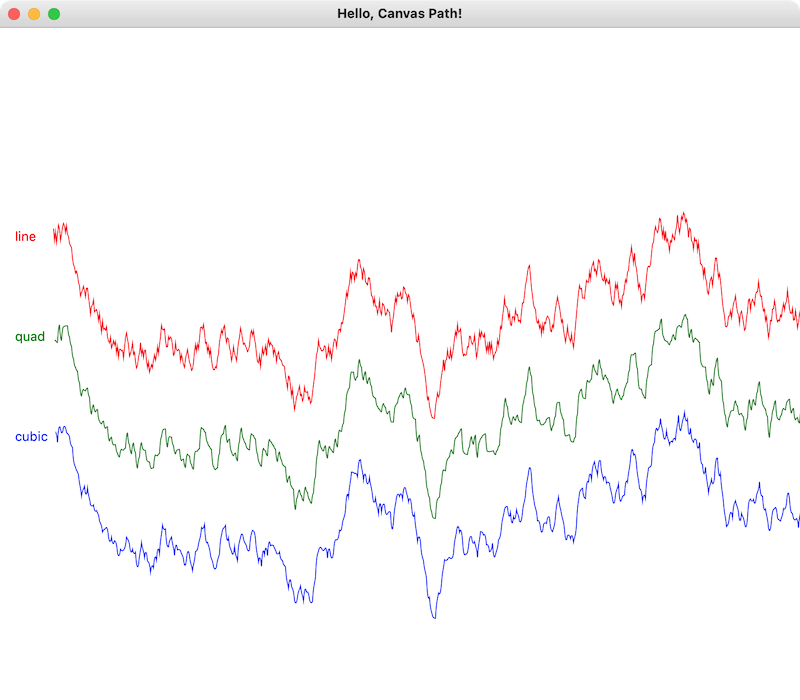
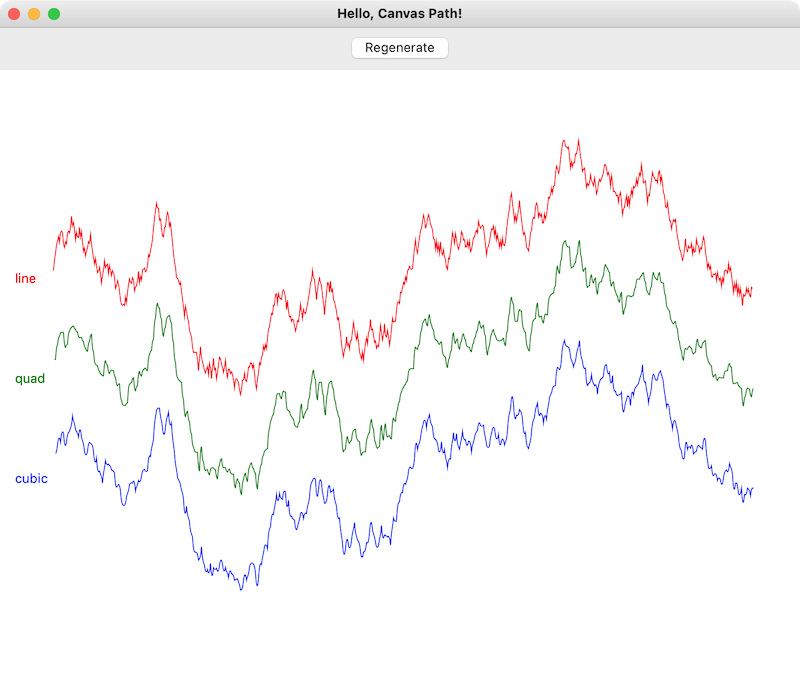
Support `Glimmer::SWT::Custom::Shape::PathSegment#dispose` method / Amend Hello, Canvas Path! sample with ability to regenerate paths

diff --git a/lib/glimmer/swt/custom/shape/path.rb b/lib/glimmer/swt/custom/shape/path.rb
@@ -52,8 +52,10 @@ module Glimmer
           
           def add_shape(shape)
             if shape.is_a?(PathSegment)
-              @path_segments << shape
-              @uncalculated_path_segments << shape
+              Glimmer::SWT::DisplayProxy.instance.auto_exec do
+                @path_segments << shape
+                @uncalculated_path_segments << shape
+              end
             else
               super
             end
@@ -80,27 +82,34 @@ module Glimmer
           end
           
           def post_dispose_content(path_segment)
-            @path_segments.delete(path_segment)
-            @uncalculated_path_segments = @path_segments.dup
-            @swt_path&.dispose
-            @swt_path = nil
-            @args = []
-            calculated_args_changed!(children: false)
+            Glimmer::SWT::DisplayProxy.instance.auto_exec do
+              @path_segments.delete(path_segment)
+              @uncalculated_path_segments = @path_segments.dup
+              @swt_path&.dispose
+              @swt_path = nil
+              @args = []
+              calculated_args_changed!(children: false)
+            end
           end
           
           def clear
-            @path_segments.each { |path_segments| path_segments.class == Path && path_segments.dispose }
-            @path_segments.clear
-            @uncalculated_path_segments = @path_segments.dup
-            @swt_path&.dispose
-            @swt_path = nil
-            @args = []
-            calculated_args_changed!(children: false)
+            Glimmer::SWT::DisplayProxy.instance.auto_exec do
+              @path_segments.each { |path_segments| path_segments.class == Path && path_segments.dispose }
+              @path_segments.clear
+              @uncalculated_path_segments = @path_segments.dup
+              @swt_path&.dispose
+              @swt_path = nil
+              @args = []
+              calculated_args_changed!(children: false)
+              drawable.redraw unless drawable.is_a?(ImageProxy)
+            end
           end
           
-          def dispose
-            clear if self.class == Path
-            super if parent.is_a?(Drawable)
+          def dispose(redraw: true)
+            Glimmer::SWT::DisplayProxy.instance.auto_exec do
+              clear if self.class == Path
+              super(redraw: redraw) if (parent.is_a?(Shape) && (!parent.is_a?(PathSegment) || !parent.part_of_path?)) || parent.is_a?(Drawable)
+            end
           end
           
           def calculated_args_changed!(children: true)
@@ -110,15 +119,19 @@ module Glimmer
           def calculated_args
             new_swt_path = @swt_path.nil? || !@calculated_paint_args || !@calculated_path_args
             if new_swt_path
-              @swt_path&.dispose
-              @swt_path = org.eclipse.swt.graphics.Path.new(Glimmer::SWT::DisplayProxy.instance.swt_display)
-              @uncalculated_path_segments = @path_segments.dup
+              Glimmer::SWT::DisplayProxy.instance.auto_exec do
+                @swt_path&.dispose
+                @swt_path = org.eclipse.swt.graphics.Path.new(Glimmer::SWT::DisplayProxy.instance.swt_display)
+                @uncalculated_path_segments = @path_segments.dup
+              end
             end
             # TODO recreate @swt_path only if one of the children get disposed (must notify parent on dispose)
             @args = [@swt_path]
-            @uncalculated_path_segments.each do |path_segment|
-              path_segment.add_to_swt_path(@swt_path)
-              @uncalculated_path_segments.delete(path_segment)
+            @uncalculated_path_segments.dup.each do |path_segment|
+              Glimmer::SWT::DisplayProxy.instance.auto_exec do
+                path_segment.add_to_swt_path(@swt_path)
+                @uncalculated_path_segments.delete(path_segment)
+              end
             end
             @calculated_path_args = true
             if new_swt_path

diff --git a/lib/glimmer/swt/custom/shape/path_segment.rb b/lib/glimmer/swt/custom/shape/path_segment.rb
@@ -24,8 +24,6 @@ require 'glimmer/swt/custom/shape'
 module Glimmer
   module SWT
     module Custom
-      # Represents a path to be drawn on a control/widget/canvas/display
-      # That is because Shape is drawn on a parent as graphics and doesn't have an SWT widget for itself
       class Shape
         # Represents path segments like point, line, quad, and cubic curves
         # Shapes could mix in
@@ -77,10 +75,17 @@ module Glimmer
             true
           end
           
-          def dispose
-            parent.post_dispose_content(self) if parent.is_a?(Path)
-            super if !part_of_path?
-            drawable.redraw unless drawable.is_a?(ImageProxy)
+          def dispose(redraw: true)
+            Glimmer::SWT::DisplayProxy.instance.auto_exec do
+              # including classes could override to dispose of resources first
+              # afterwards, parent removes from its path segments with post_dispose_content
+              parent.post_dispose_content(self) if parent.is_a?(Path)
+              if part_of_path?
+                drawable.redraw if redraw && !drawable.is_a?(ImageProxy)
+              else
+                super(redraw: redraw)
+              end
+            end
           end
           
           def first_path_segment?
@@ -92,22 +97,19 @@ module Glimmer
           end
           
           def add_to_swt_path(swt_path)
-            if @swt_path != swt_path
-              @swt_path = swt_path
-              the_path_segment_args = path_segment_args.dup
-              if !is_a?(Point) && self.class != Path
-                if !previous_point_connected?
-                  if the_path_segment_args.count == default_path_segment_arg_count
-                    point = the_path_segment_args.shift, the_path_segment_args.shift
-                    @swt_path.moveTo(*point)
-                  elsif first_path_segment?
-                    point = the_path_segment_args[0..1]
-                    @swt_path.moveTo(*point)
-                  end
+            the_path_segment_args = path_segment_args.dup
+            if !is_a?(Point) && self.class != Path
+              if !previous_point_connected?
+                if the_path_segment_args.count == default_path_segment_arg_count
+                  point = the_path_segment_args.shift, the_path_segment_args.shift
+                  swt_path.moveTo(*point)
+                elsif first_path_segment?
+                  point = the_path_segment_args[0..1]
+                  swt_path.moveTo(*point)
                 end
               end
-              @swt_path.send(path_segment_method_name, *the_path_segment_args)
             end
+            swt_path.send(path_segment_method_name, *the_path_segment_args)
           end
           
           def add_to_geometry(geometry)

diff --git a/lib/glimmer/swt/custom/shape.rb b/lib/glimmer/swt/custom/shape.rb
@@ -503,7 +503,7 @@ module Glimmer
           pattern_args(type: 'foreground')
         end
         
-        def dispose(dispose_images: true, dispose_patterns: true)
+        def dispose(dispose_images: true, dispose_patterns: true, redraw: true)
           shapes.each { |shape| shape.is_a?(Shape::Path) && shape.dispose }
           if dispose_patterns
             @background_pattern&.dispose
@@ -516,6 +516,7 @@ module Glimmer
             @image = nil
           end
           @parent.shapes.delete(self)
+          drawable.redraw if redraw && !drawable.is_a?(ImageProxy)
         end
         
         def paint(paint_event)
@@ -553,7 +554,7 @@ module Glimmer
           end
           @painting = false
         rescue => e
-          Glimmer::Config.logger.error {"Error encountered in painting shape (#{self.inspect}) with calculated args (#{@calculated_args}) and args (#{@args})"}
+          Glimmer::Config.logger.error {"Error encountered in painting shape (#{self.inspect}) with method (#{@method_name}) calculated args (#{@calculated_args}) and args (#{@args})"}
           Glimmer::Config.logger.error {e.full_message}
         ensure
           @painting = false

diff --git a/samples/hello/hello_canvas_path.rb b/samples/hello/hello_canvas_path.rb
@@ -81,7 +81,7 @@ shell {
           @path2.clear
           @path3.clear
           y1 = y2 = y3 = 300
-          730.times.each do |x|
+          700.times.each do |x|
             x += 55
             x1 = x - 2
             x2 = x - 1

diff --git a/TODO.md b/TODO.md
@@ -4,7 +4,6 @@ Here is a list of tasks to do (moved to [CHANGELOG.md](CHANGELOG.md) once done).
 
 ## Upcoming 4.18.6.3
 
-- Ensure that disposing path content works and amend Hello, Canvas Path! to dispose a path and redo with the press of a button
 - Support a tabfolder prerendering/preinit of its tabs (or opposite of `:no_pre_render`) (also look into auto-packing issues)
 - Support `antialias true` as an alternative to `antialias :on`, `antialias false` as an alternative to `antialias :off`, and `antialias nil` as an alternative to `antialias :default`
 - Document Canvas Path API

diff --git a/CHANGELOG.md b/CHANGELOG.md
@@ -1,5 +1,10 @@
 # Change Log
 
+### 4.18.6.3
+
+- Support `Glimmer::SWT::Custom::Shape::PathSegment#dispose` method
+- Amend Hello, Canvas Path! sample with ability to regenerate paths
+
 ### 4.18.6.2
 
 - Hello, Canvas Data Binding! Sample
